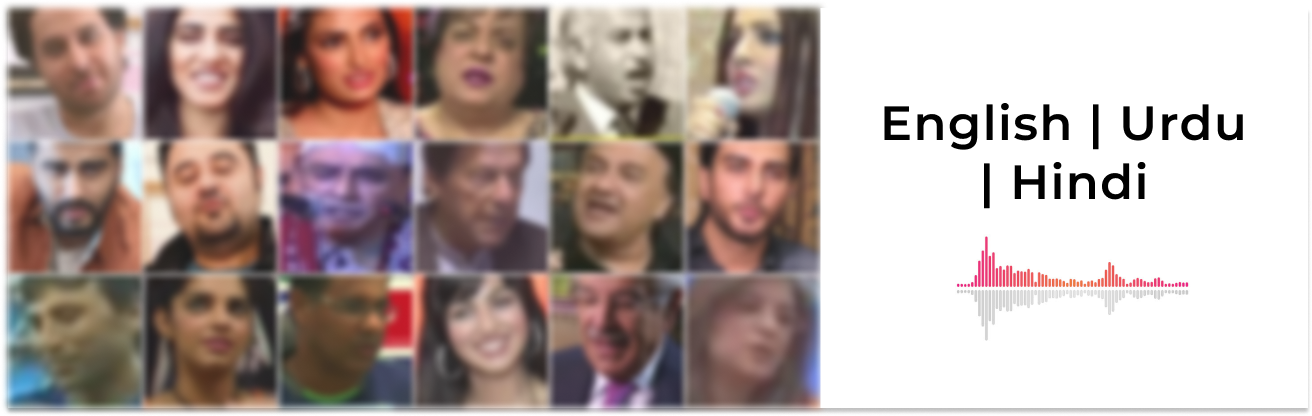
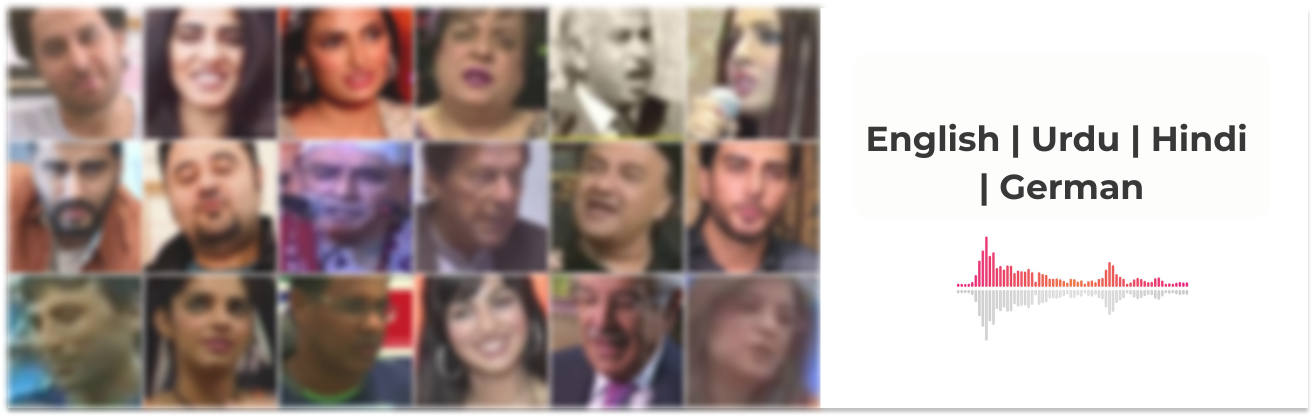
update images, disable links and add meta data

Changed region(s): [[0.6562, 0.25, 0.9688, 0.5]]

diff --git a/competition.html b/competition.html
@@ -106,7 +106,7 @@
             width: 100%;
             height: 40vh;
             /* background-image: url(./static/images/Banner2.png); */
-            background-image: linear-gradient(rgba(0, 0, 0, 0.2), rgba(0, 0, 0, 0.2)), url("./static/images/Banner2.png");
+            background-image: linear-gradient(rgba(0, 0, 0, 0.2), rgba(0, 0, 0, 0.2)), url("./static/images/image_new.png");
             background-size: contain;
             background-position: center;
             background-repeat: no-repeat;
@@ -379,8 +379,8 @@
                         </li>
                         <li>MAV-Celeb v3
                         <ul>
-                            <li><a href="https://drive.google.com/drive/folders/1OJyjXJULErvrvzLQmpJn5v8rRo0n_fod?usp=sharing">Raw files link</a></li>
-                            <li><a href="https://drive.google.com/drive/folders/1MEHtEVh9lSa9hNZxjEfNJnE3qrpm_PKw?usp=sharing">Train/Test Split</a></li>
+                            <li><a href="">Raw files link</a></li>
+                            <li><a href="">Train/Test Split</a></li>
                         </ul>
                     </li>
                     </ul>
@@ -388,7 +388,7 @@
                     <ul>
                         <li><a href="./static/docs/v1_meta.pdf">v1 meta-data file</a></li>
                         <li><a href="./static/docs/v2_meta.pdf">v2 meta-data file</a></li>
-                        <li><a href="./static/docs/v3_meta.pdf">v3 meta-data file</a></li>
+                        <li><a href="./static/docs/v3_meta.txt">v3 meta-data file</a></li>
                     </ul>
                 </div>
 
@@ -596,7 +596,7 @@ the task to analyze the impact of multiple languages.</p>
             <a href="http://www.mschedl.eu/">Markus Schedl</a> - 
             <span style="font-size: 12px;">Institute of Computational Perception, Johannes Kepler University Linz, Austria | Human-centered AI Group, AI Lab, Linz Institute of Technology, Austria</span> <br>
             
-            <a href="#">Ahmed Abdullah</a> - 
+            <a href="https://ahmedembeddedxx.github.io/">Ahmed Abdullah</a> - 
             <span style="font-size: 12px;">National University of Computer and Emerging Sciences, Pakistan</span> <br>
         </p>
 

diff --git a/index.html b/index.html
@@ -108,7 +108,7 @@
             align-items: center;
             width: 100%;
             height: 40vh;
-            background-image: linear-gradient(rgba(0, 0, 0, 0.2), rgba(0, 0, 0, 0.2)), url("./static/images/Banner2.png");
+            background-image: linear-gradient(rgba(0, 0, 0, 0.2), rgba(0, 0, 0, 0.2)), url("./static/images/image_new.png");
             background-size: contain;
             background-position: center;
             background-repeat: no-repeat;
@@ -338,8 +338,8 @@
                         </ul>
                         <li>MAV-Celeb v3</li>
                         <ul>
-                            <li><a href="https://drive.google.com/drive/folders/1OJyjXJULErvrvzLQmpJn5v8rRo0n_fod?usp=sharing">Raw files link</a></li>
-                            <li><a href="https://drive.google.com/drive/folders/1MEHtEVh9lSa9hNZxjEfNJnE3qrpm_PKw?usp=sharing">Train/Test Split</a></li>
+                            <li><a href="">Raw files link</a></li>
+                            <li><a href="">Train/Test Split</a></li>
                         </ul>
                     </ul>
                     <p>
@@ -347,14 +347,14 @@
                         <ul>
                             <li><a href="./static/docs/v1_meta.pdf">v1 meta-data file</a></li>
                             <li><a href="./static/docs/v2_meta.pdf">v2 meta-data file</a></li>
-                            <li><a href="./static/docs/v3_meta.pdf">v3 meta-data file</a></li>
+                            <li><a href="./static/docs/v3_meta.txt">v3 meta-data file</a></li>
                         </ul>
                     </p>
                 </div>
 
                 <div class="dataset-item" style="overflow-y: scroll;">
                     <p>The file structure is like:</p>
-                    <img src="./static/images/dataset_structure.png">
+                    <img src="./static/images/dataset_structure_2.png">
                 </div>
             </div>
         </div>
